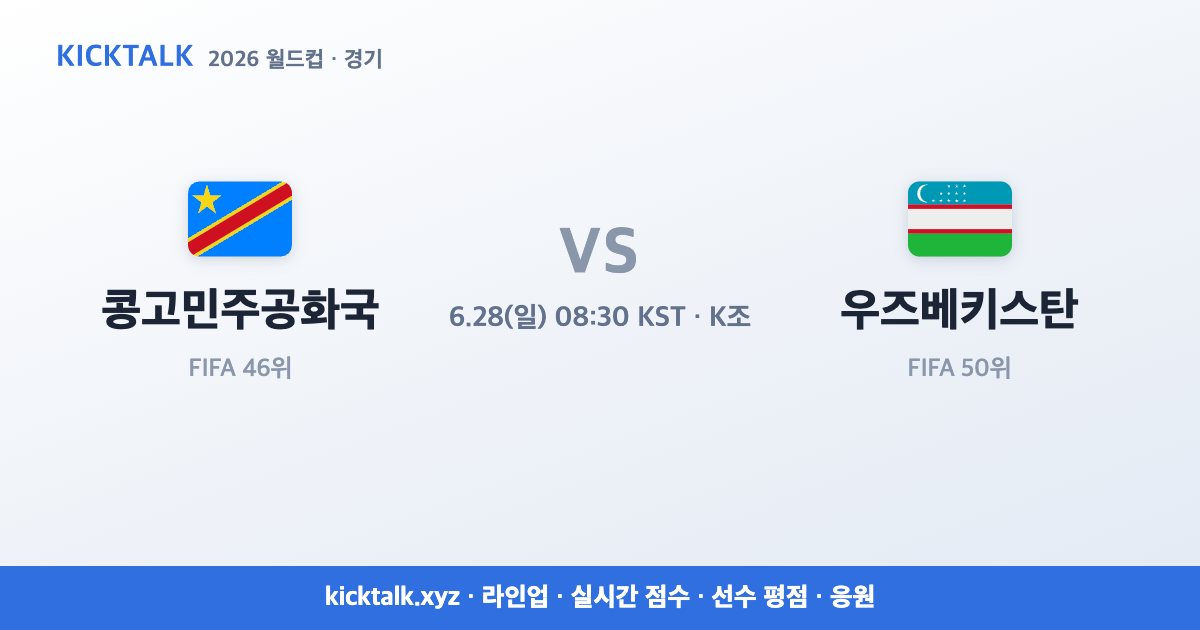
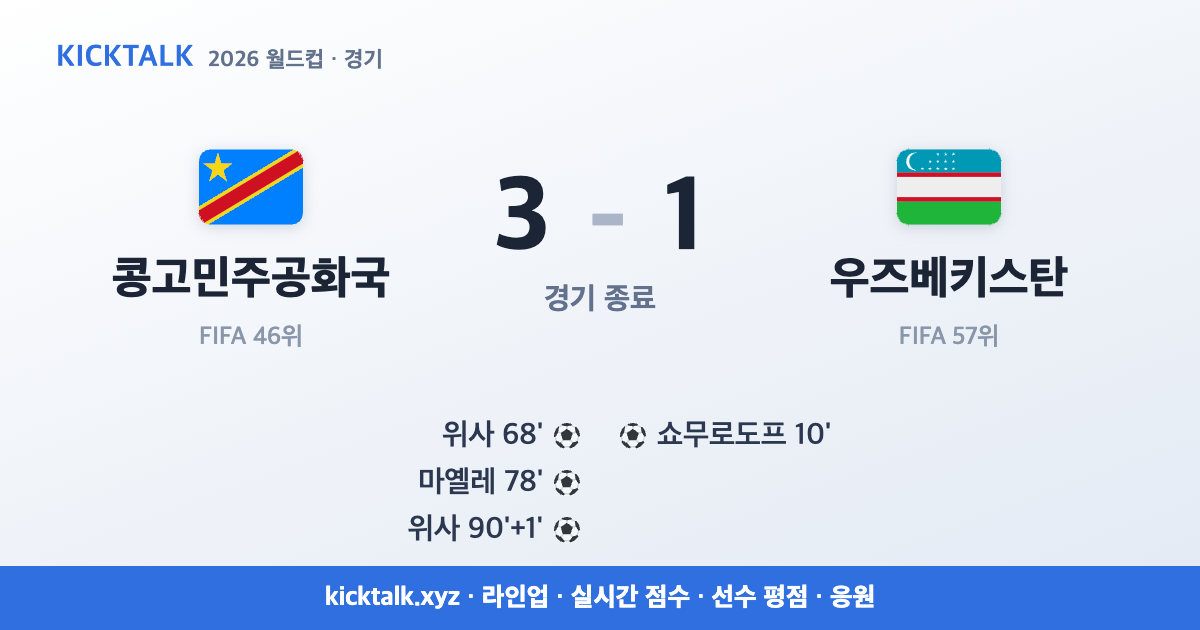
OG 자동재생성(종료경기 결과반영): match-66

diff --git a/m/dr-congo-vs-uzbekistan.html b/m/dr-congo-vs-uzbekistan.html
@@ -1,1 +1,1 @@
-<!DOCTYPE html><html lang=ko><head><meta charset=UTF-8><meta name=viewport content='width=device-width,initial-scale=1'><script async src='https://www.googletagmanager.com/gtag/js?id=G-KNLJ29Y409'></script><script>window.dataLayer=window.dataLayer||[];function gtag(){dataLayer.push(arguments);}gtag('js',new Date());gtag('config','G-KNLJ29Y409');</script><title>콩고민주공화국 vs 우즈베키스탄 중계·라인업·선수평점 | 킥톡 2026 월드컵</title><meta name=description content='콩고민주공화국 vs 우즈베키스탄 6/28(일) 08:30 KST 킥오프 (K조). 예상·확정 라인업, 실시간 중계 스코어, 선수 평점·MVP 투표, 응원·하이라이트까지 킥톡에서 한눈에.'><link rel=canonical href='https://kicktalk.xyz/m/dr-congo-vs-uzbekistan.html'><meta name=robots content='index,follow'><meta property=og:type content=website><meta property=og:title content='콩고민주공화국 vs 우즈베키스탄 — 중계·라인업·평점 | 킥톡'><meta property=og:description content='콩고민주공화국 vs 우즈베키스탄 6/28(일) 08:30 KST 킥오프 (K조). 예상·확정 라인업, 실시간 중계 스코어, 선수 평점·MVP 투표, 응원·하이라이트까지 킥톡에서 한눈에.'><meta property=og:url content='https://kicktalk.xyz/m/dr-congo-vs-uzbekistan.html'><meta property=og:image content='https://kicktalk.xyz/ogm/dr-congo-vs-uzbekistan.png?v=3'><meta property=og:image:width content='1200'><meta property=og:image:height content='630'><meta name=twitter:card content='summary_large_image'><meta name=twitter:title content='콩고민주공화국 vs 우즈베키스탄 | 킥톡'><meta name=twitter:description content='콩고민주공화국 vs 우즈베키스탄 6/28(일) 08:30 KST 킥오프 (K조). 예상·확정 라인업, 실시간 중계 스코어, 선수 평점·MVP 투표, 응원·하이라이트까지 킥톡에서 한눈에.'><meta name=twitter:image content='https://kicktalk.xyz/ogm/dr-congo-vs-uzbekistan.png?v=3'><script type=application/ld+json>{"@context":"https://schema.org","@type":"SportsEvent","name":"콩고민주공화국 vs 우즈베키스탄","sport":"축구","description":"콩고민주공화국 vs 우즈베키스탄 6/28(일) 08:30 KST 킥오프 (K조). 예상·확정 라인업, 실시간 중계 스코어, 선수 평점·MVP 투표, 응원·하이라이트까지 킥톡에서 한눈에.","startDate":"2026-06-27","eventStatus":"https://schema.org/EventScheduled","location":{"@type":"Place","name":"Mercedes-Benz Stadium, Atlanta","address":{"@type":"PostalAddress","addressLocality":"Atlanta"}},"image":["https://kicktalk.xyz/ogm/dr-congo-vs-uzbekistan.png"],"url":"https://kicktalk.xyz/m/dr-congo-vs-uzbekistan.html","organizer":{"@type":"Organization","name":"FIFA","url":"https://www.fifa.com"},"performer":[{"@type":"SportsTeam","name":"콩고민주공화국"},{"@type":"SportsTeam","name":"우즈베키스탄"}],"competitor":[{"@type":"SportsTeam","name":"콩고민주공화국"},{"@type":"SportsTeam","name":"우즈베키스탄"}],"offers":{"@type":"Offer","url":"https://kicktalk.xyz/#match/match-66","price":"0","priceCurrency":"KRW","availability":"https://schema.org/InStock","validFrom":"2026-06-27"}}</script><style>body{margin:0;background:#070d18;color:#eaf0fb;font-family:-apple-system,'Apple SD Gothic Neo',sans-serif;line-height:1.6}.wrap{max-width:680px;margin:0 auto;padding:20px;text-align:center}a{color:#4f8cff;text-decoration:none}.brand{font-weight:800;padding:8px 0;font-size:15px}h1{font-size:26px;margin:18px 0 6px}.vs{color:#9fb0cc;font-size:18px;font-weight:600}.meta{color:#9fb0cc;font-size:14px;margin:0 0 8px}h2{font-size:14px;color:#9fb0cc;margin:22px 0 8px}ul.wp{list-style:none;padding:0;text-align:left}ul.wp li{background:#111c30;border:1px solid #243049;border-radius:8px;padding:9px 12px;margin-bottom:6px;font-size:14px}.cta{display:inline-block;background:#4f8cff;color:#06122a;font-weight:800;border-radius:11px;padding:13px 20px;margin:20px 0 8px}.sub{color:#6f7d96;font-size:12.5px}.tlinks{font-size:13.5px;margin-top:14px}.ft{margin-top:26px;padding-top:14px;border-top:1px solid #243049;color:#6f7d96;font-size:12.5px}.ft a{color:#9fb0cc}</style></head><body><div class=wrap><div class=brand>⚽ <a href='https://kicktalk.xyz/'>킥톡 KickTalk</a></div><h1>🇨🇩 콩고민주공화국 <span class=vs>vs</span> 우즈베키스탄 🇺🇿</h1><p class=meta>6/28(일) 08:30 KST · K조 · Mercedes-Benz Stadium, Atlanta</p><h2>콩고민주공화국 vs 우즈베키스탄 경기 정보·중계</h2><p>콩고민주공화국 vs 우즈베키스탄 경기는 6/28(일) 08:30 KST K조에 열립니다. 예상·확정 라인업과 실시간 중계 스코어, 경기 후 선수 평점·MVP 투표를 킥톡에서 무료로 확인하세요. 경기장: Mercedes-Benz Stadium, Atlanta.</p><h2>관전 포인트</h2><ul class=wp><li>음벰바와 후사노프, 양 팀을 대표하는 두 센터백이 각자의 수비 블록을 지휘하는 맞대결이 경기의 무게중심이 된다.</li><li>콩고DR의 빠른 윙어·9번을 앞세운 역습 한 방 대 우즈베키스탄의 끈끈한 조직력과 높은 활동량, 실리 축구끼리의 팽팽한 균형이 흥미롭다.</li><li>바캄부·위사의 침투와 쇼무로도프의 연계, 양 팀 공격 자원이 단단한 상대 수비를 깨는 한 방을 누가 먼저 찾느냐가 변수다.</li></ul><a class=cta href='https://kicktalk.xyz/#match/match-66'>킥톡에서 실시간 점수·라인업·선수평점 보기 →</a><p class=sub>예상 라인업 · 실시간 스코어 · 선수 평점/MVP 투표 · 응원 메시지 · 포인트 베팅</p><p class=tlinks><a href='https://kicktalk.xyz/t/dr-congo.html'>콩고민주공화국 선수단</a> · <a href='https://kicktalk.xyz/t/uzbekistan.html'>우즈베키스탄 선수단</a></p><div class=ft><a href='https://kicktalk.xyz/'>홈</a> · <a href='https://kicktalk.xyz/about.html'>소개</a> · <a href='https://kicktalk.xyz/privacy.html'>개인정보처리방침</a> · <a href='https://kicktalk.xyz/terms.html'>서비스 약관</a></div></div></body></html>
+<!DOCTYPE html><html lang=ko><head><meta charset=UTF-8><meta name=viewport content='width=device-width,initial-scale=1'><script async src='https://www.googletagmanager.com/gtag/js?id=G-KNLJ29Y409'></script><script>window.dataLayer=window.dataLayer||[];function gtag(){dataLayer.push(arguments);}gtag('js',new Date());gtag('config','G-KNLJ29Y409');</script><title>콩고민주공화국 vs 우즈베키스탄 중계·라인업·선수평점 | 킥톡 2026 월드컵</title><meta name=description content='콩고민주공화국 vs 우즈베키스탄 6/28(일) 08:30 KST 킥오프 (K조). 예상·확정 라인업, 실시간 중계 스코어, 선수 평점·MVP 투표, 응원·하이라이트까지 킥톡에서 한눈에.'><link rel=canonical href='https://kicktalk.xyz/m/dr-congo-vs-uzbekistan.html'><meta name=robots content='index,follow'><meta property=og:type content=website><meta property=og:title content='콩고민주공화국 vs 우즈베키스탄 — 중계·라인업·평점 | 킥톡'><meta property=og:description content='콩고민주공화국 vs 우즈베키스탄 6/28(일) 08:30 KST 킥오프 (K조). 예상·확정 라인업, 실시간 중계 스코어, 선수 평점·MVP 투표, 응원·하이라이트까지 킥톡에서 한눈에.'><meta property=og:url content='https://kicktalk.xyz/m/dr-congo-vs-uzbekistan.html'><meta property=og:image content='https://kicktalk.xyz/ogm/dr-congo-vs-uzbekistan.png?v=4'><meta property=og:image:width content='1200'><meta property=og:image:height content='630'><meta name=twitter:card content='summary_large_image'><meta name=twitter:title content='콩고민주공화국 vs 우즈베키스탄 | 킥톡'><meta name=twitter:description content='콩고민주공화국 vs 우즈베키스탄 6/28(일) 08:30 KST 킥오프 (K조). 예상·확정 라인업, 실시간 중계 스코어, 선수 평점·MVP 투표, 응원·하이라이트까지 킥톡에서 한눈에.'><meta name=twitter:image content='https://kicktalk.xyz/ogm/dr-congo-vs-uzbekistan.png?v=4'><script type=application/ld+json>{"@context":"https://schema.org","@type":"SportsEvent","name":"콩고민주공화국 vs 우즈베키스탄","sport":"축구","description":"콩고민주공화국 vs 우즈베키스탄 6/28(일) 08:30 KST 킥오프 (K조). 예상·확정 라인업, 실시간 중계 스코어, 선수 평점·MVP 투표, 응원·하이라이트까지 킥톡에서 한눈에.","startDate":"2026-06-27","eventStatus":"https://schema.org/EventScheduled","location":{"@type":"Place","name":"Mercedes-Benz Stadium, Atlanta","address":{"@type":"PostalAddress","addressLocality":"Atlanta"}},"image":["https://kicktalk.xyz/ogm/dr-congo-vs-uzbekistan.png"],"url":"https://kicktalk.xyz/m/dr-congo-vs-uzbekistan.html","organizer":{"@type":"Organization","name":"FIFA","url":"https://www.fifa.com"},"performer":[{"@type":"SportsTeam","name":"콩고민주공화국"},{"@type":"SportsTeam","name":"우즈베키스탄"}],"competitor":[{"@type":"SportsTeam","name":"콩고민주공화국"},{"@type":"SportsTeam","name":"우즈베키스탄"}],"offers":{"@type":"Offer","url":"https://kicktalk.xyz/#match/match-66","price":"0","priceCurrency":"KRW","availability":"https://schema.org/InStock","validFrom":"2026-06-27"}}</script><style>body{margin:0;background:#070d18;color:#eaf0fb;font-family:-apple-system,'Apple SD Gothic Neo',sans-serif;line-height:1.6}.wrap{max-width:680px;margin:0 auto;padding:20px;text-align:center}a{color:#4f8cff;text-decoration:none}.brand{font-weight:800;padding:8px 0;font-size:15px}h1{font-size:26px;margin:18px 0 6px}.vs{color:#9fb0cc;font-size:18px;font-weight:600}.meta{color:#9fb0cc;font-size:14px;margin:0 0 8px}h2{font-size:14px;color:#9fb0cc;margin:22px 0 8px}ul.wp{list-style:none;padding:0;text-align:left}ul.wp li{background:#111c30;border:1px solid #243049;border-radius:8px;padding:9px 12px;margin-bottom:6px;font-size:14px}.cta{display:inline-block;background:#4f8cff;color:#06122a;font-weight:800;border-radius:11px;padding:13px 20px;margin:20px 0 8px}.sub{color:#6f7d96;font-size:12.5px}.tlinks{font-size:13.5px;margin-top:14px}.ft{margin-top:26px;padding-top:14px;border-top:1px solid #243049;color:#6f7d96;font-size:12.5px}.ft a{color:#9fb0cc}</style></head><body><div class=wrap><div class=brand>⚽ <a href='https://kicktalk.xyz/'>킥톡 KickTalk</a></div><h1>🇨🇩 콩고민주공화국 <span class=vs>vs</span> 우즈베키스탄 🇺🇿</h1><p class=meta>6/28(일) 08:30 KST · K조 · Mercedes-Benz Stadium, Atlanta</p><h2>콩고민주공화국 vs 우즈베키스탄 경기 정보·중계</h2><p>콩고민주공화국 vs 우즈베키스탄 경기는 6/28(일) 08:30 KST K조에 열립니다. 예상·확정 라인업과 실시간 중계 스코어, 경기 후 선수 평점·MVP 투표를 킥톡에서 무료로 확인하세요. 경기장: Mercedes-Benz Stadium, Atlanta.</p><h2>관전 포인트</h2><ul class=wp><li>음벰바와 후사노프, 양 팀을 대표하는 두 센터백이 각자의 수비 블록을 지휘하는 맞대결이 경기의 무게중심이 된다.</li><li>콩고DR의 빠른 윙어·9번을 앞세운 역습 한 방 대 우즈베키스탄의 끈끈한 조직력과 높은 활동량, 실리 축구끼리의 팽팽한 균형이 흥미롭다.</li><li>바캄부·위사의 침투와 쇼무로도프의 연계, 양 팀 공격 자원이 단단한 상대 수비를 깨는 한 방을 누가 먼저 찾느냐가 변수다.</li></ul><a class=cta href='https://kicktalk.xyz/#match/match-66'>킥톡에서 실시간 점수·라인업·선수평점 보기 →</a><p class=sub>예상 라인업 · 실시간 스코어 · 선수 평점/MVP 투표 · 응원 메시지 · 포인트 베팅</p><p class=tlinks><a href='https://kicktalk.xyz/t/dr-congo.html'>콩고민주공화국 선수단</a> · <a href='https://kicktalk.xyz/t/uzbekistan.html'>우즈베키스탄 선수단</a></p><div class=ft><a href='https://kicktalk.xyz/'>홈</a> · <a href='https://kicktalk.xyz/about.html'>소개</a> · <a href='https://kicktalk.xyz/privacy.html'>개인정보처리방침</a> · <a href='https://kicktalk.xyz/terms.html'>서비스 약관</a></div></div></body></html>